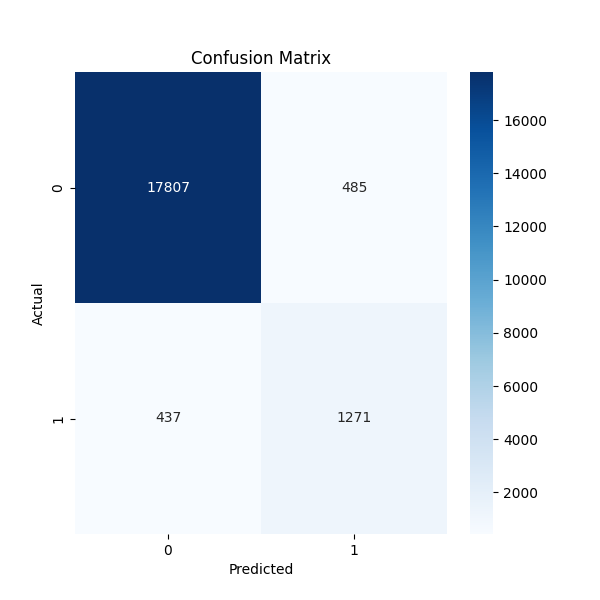
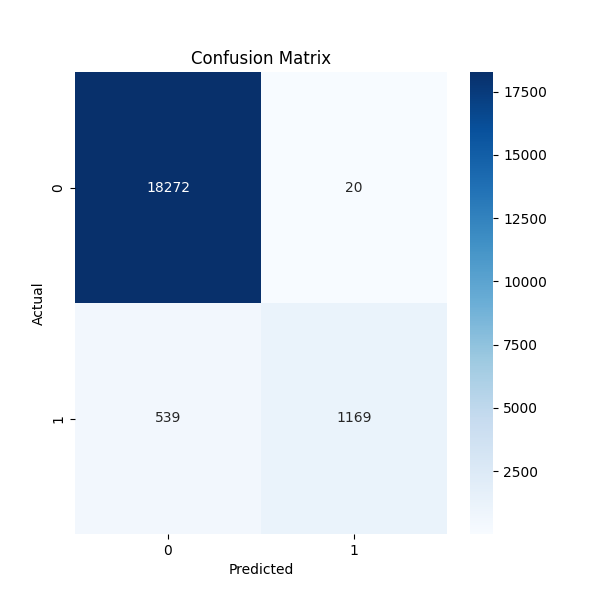
four experiments completed

diff --git a/src/experiments.py b/src/experiments.py
@@ -3,7 +3,7 @@ import pandas as pd
 import matplotlib.pyplot as plt
 import seaborn as sns
 from sklearn.model_selection import train_test_split
-from sklearn.tree import DecisionTreeClassifier
+from sklearn.ensemble import RandomForestClassifier
 from sklearn.metrics import (
     accuracy_score,
     f1_score,
@@ -34,13 +34,14 @@ x_train, x_test, y_train, y_test = train_test_split(
 )
 
 
-max_depth = 30
+max_depth = 15
+n_estimators = 100
 
 
 # model
-dt = DecisionTreeClassifier(max_depth=max_depth)
-dt.fit(x_train, y_train)
-y_pred = dt.predict(x_test)
+rf = RandomForestClassifier(max_depth=max_depth, n_estimators=n_estimators)
+rf.fit(x_train, y_train)
+y_pred = rf.predict(x_test)
 
 # accuracy=accuracy_score(y_test, y_pred)
 # precision=precision_score(y_test, y_pred)
@@ -57,17 +58,17 @@ print("f1_score : ", f1_score(y_test, y_pred))
 # with mlflow.start_run(): without setexperimet or experiment id they are  stored in the default experiment runs
 
 # mlflow.set_experiment(
-#     "dt-Diabetes_classification"
+#     "rf-Diabetes_classification"
 # )  # - (new experiment name) if present it creates runs in that experiment if experiment doesnt exists  it will creat one
 # or  with mlflow.start_run(experiment_id=the experiment id):
 # deckare run name to avoid default random names run_name="name"
 # mlflow.set_tracking_uri("http://127.0.0.1:5000/") for local
 
 mlflow.set_tracking_uri("https://dagshub.com/rabin20-04/mlflow.mlflow")
-dagshub.init(repo_owner="rabin20-04", repo_name="mlflow", mlflow=True) # type: ignore
+dagshub.init(repo_owner="rabin20-04", repo_name="mlflow", mlflow=True)  # type: ignore
 
 
-mlflow.set_experiment("dt-Diabetes_classification")
+mlflow.set_experiment("rf-Diabetes_classification")
 
 
 with mlflow.start_run():
@@ -77,8 +78,9 @@ with mlflow.start_run():
     mlflow.log_metric("f1_score : ", float(f1_score(y_test, y_pred)))
 
     mlflow.log_param("max_depth", max_depth)
+    mlflow.log_param("n-estimators", n_estimators)
 
-    mlflow.sklearn.log_model(sk_model=dt, artifact_path="DecisionTree")
+    mlflow.sklearn.log_model(sk_model=rf, artifact_path="Random forest")
     mlflow.set_tag("author", "tester")
     mlflow.set_tag("model", "decision tree")
     mlflow.set_tag("state", "almost final")
